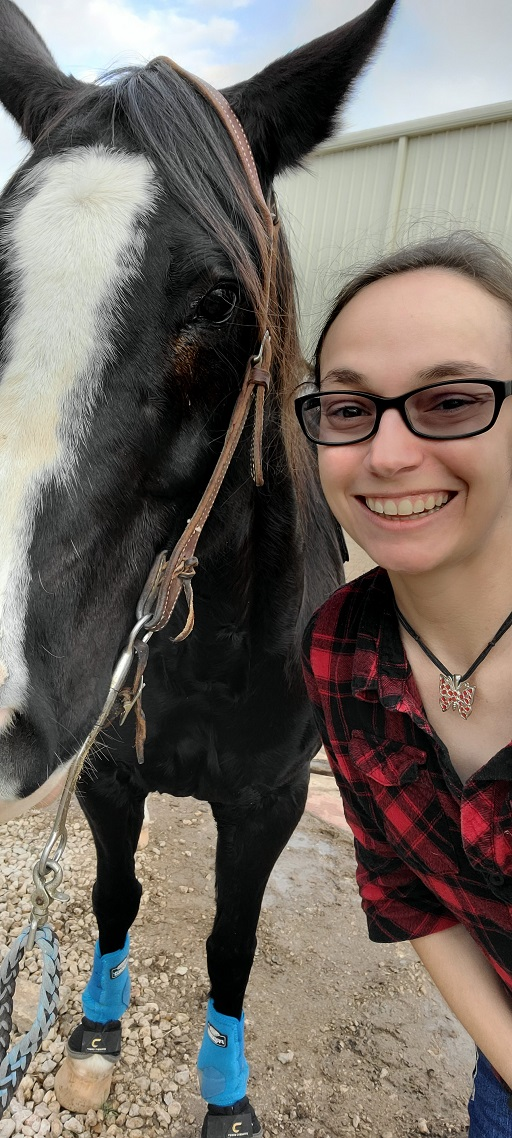
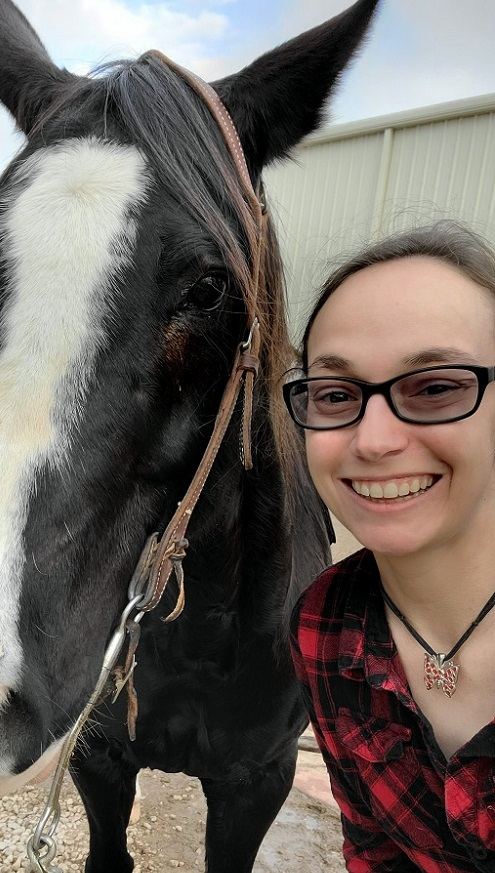
Pictures

diff --git a/index.html b/index.html
@@ -97,7 +97,7 @@
 
         <div class="row">
           <div class="col-lg-4" data-aos="fade-right">
-            <img src="assets/img/profile-img.jpg" class="img-fluid" alt="">
+            <img src="assets/img/about-img.jpg" class="img-fluid" alt="">
           </div>
           <div class="col-lg-8 pt-4 pt-lg-0 content" data-aos="fade-left">
             <h3>Plant Geneticist &amp; Bioinformatics.</h3>
